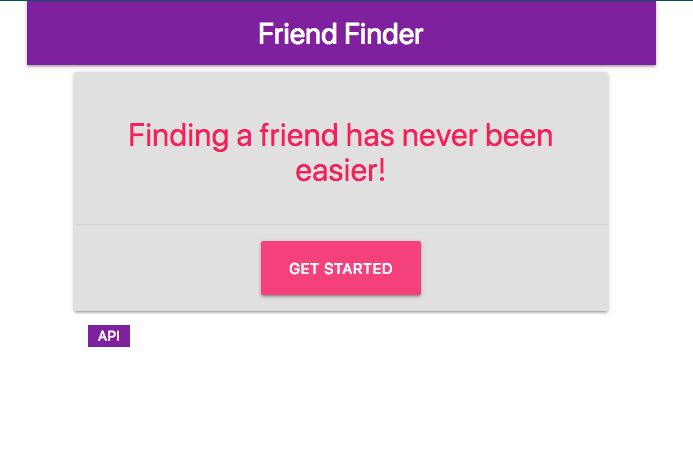
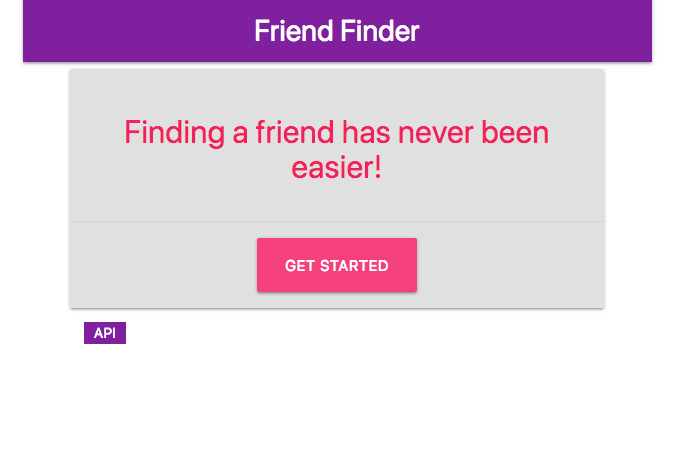
update README app finalized

diff --git a/app/public/home.html b/app/public/home.html
@@ -20,7 +20,7 @@
 
 </head>
 <body>
-    <div class="container">
+    <div class="container z-depth-2 mb-0">
 
         <!-- Navbar  -->
         <nav class="purple darken-2">
